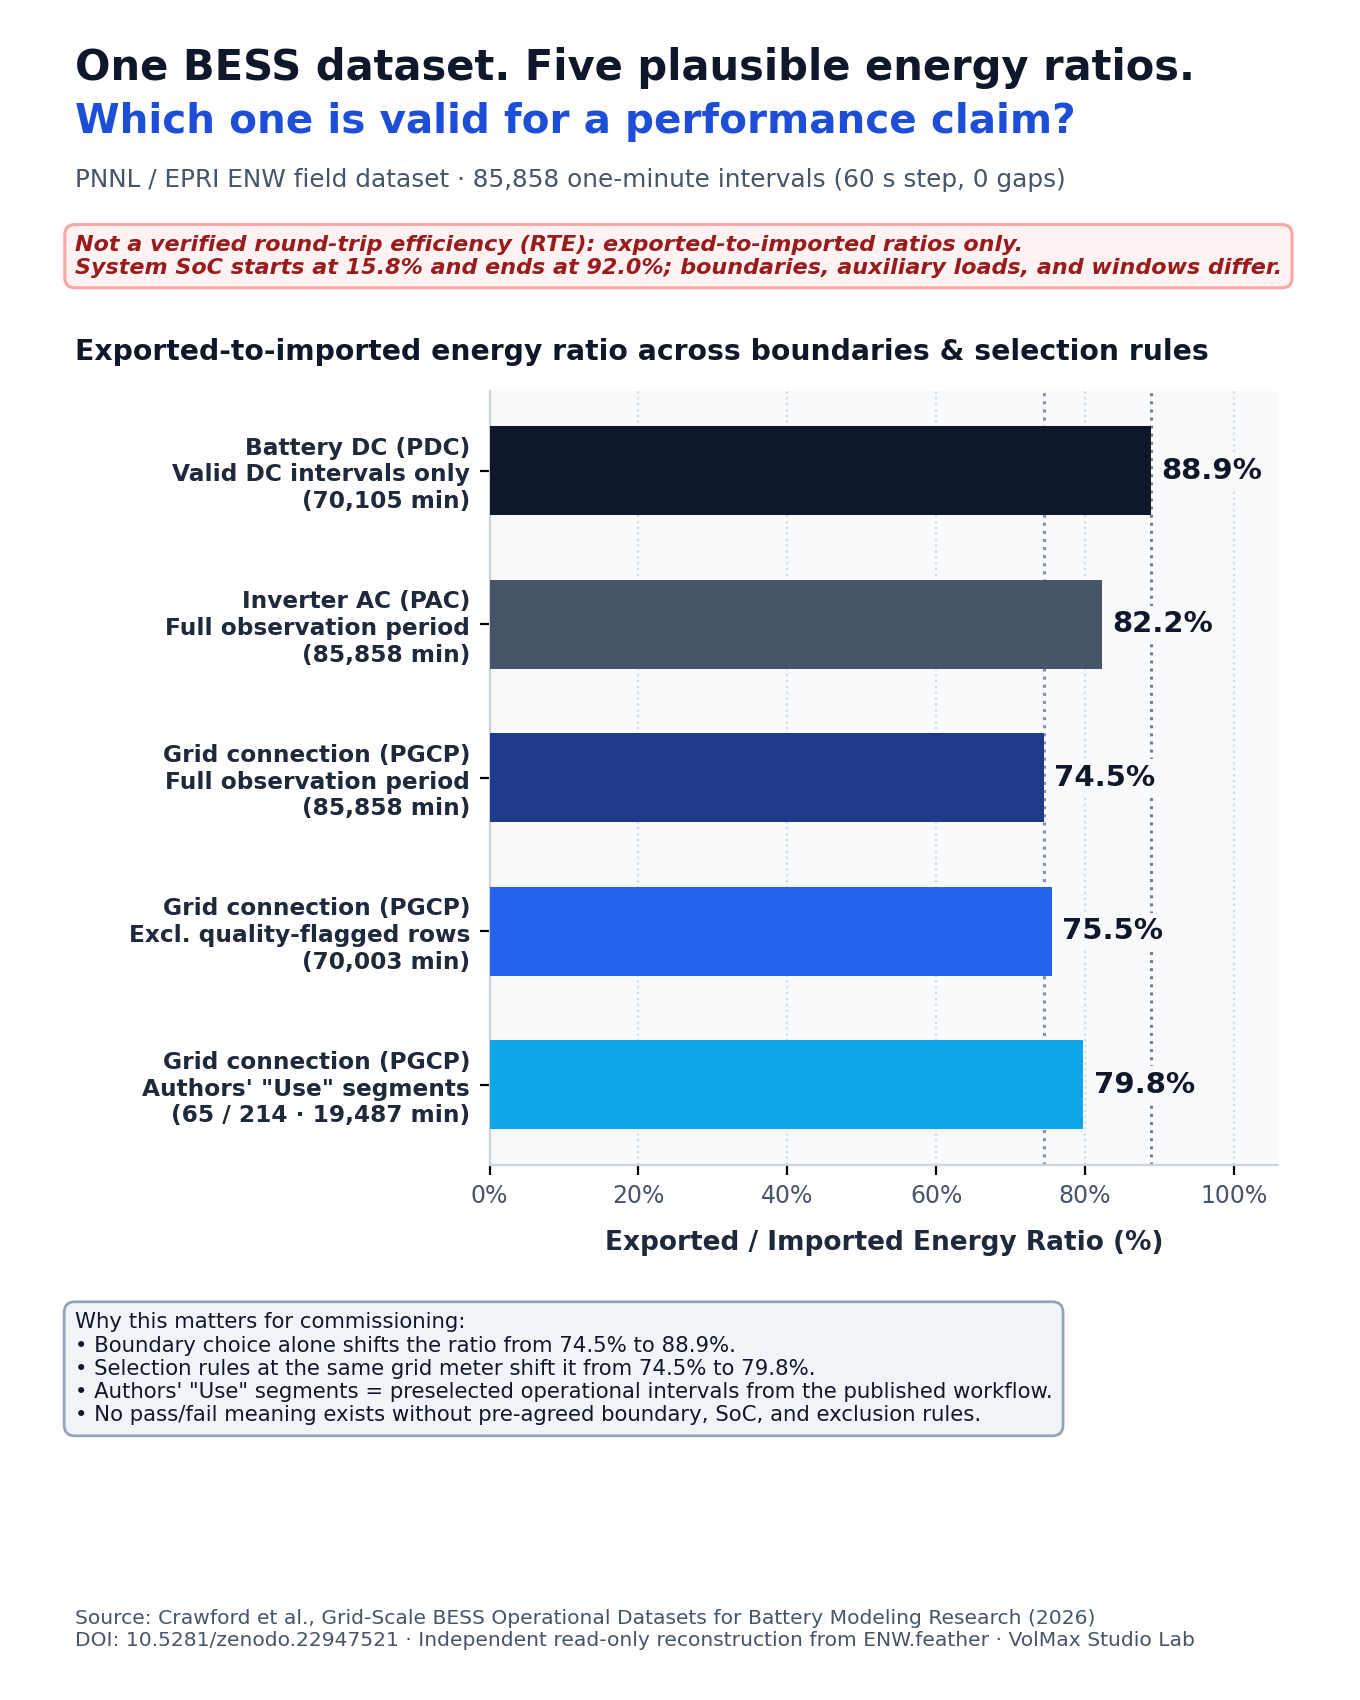
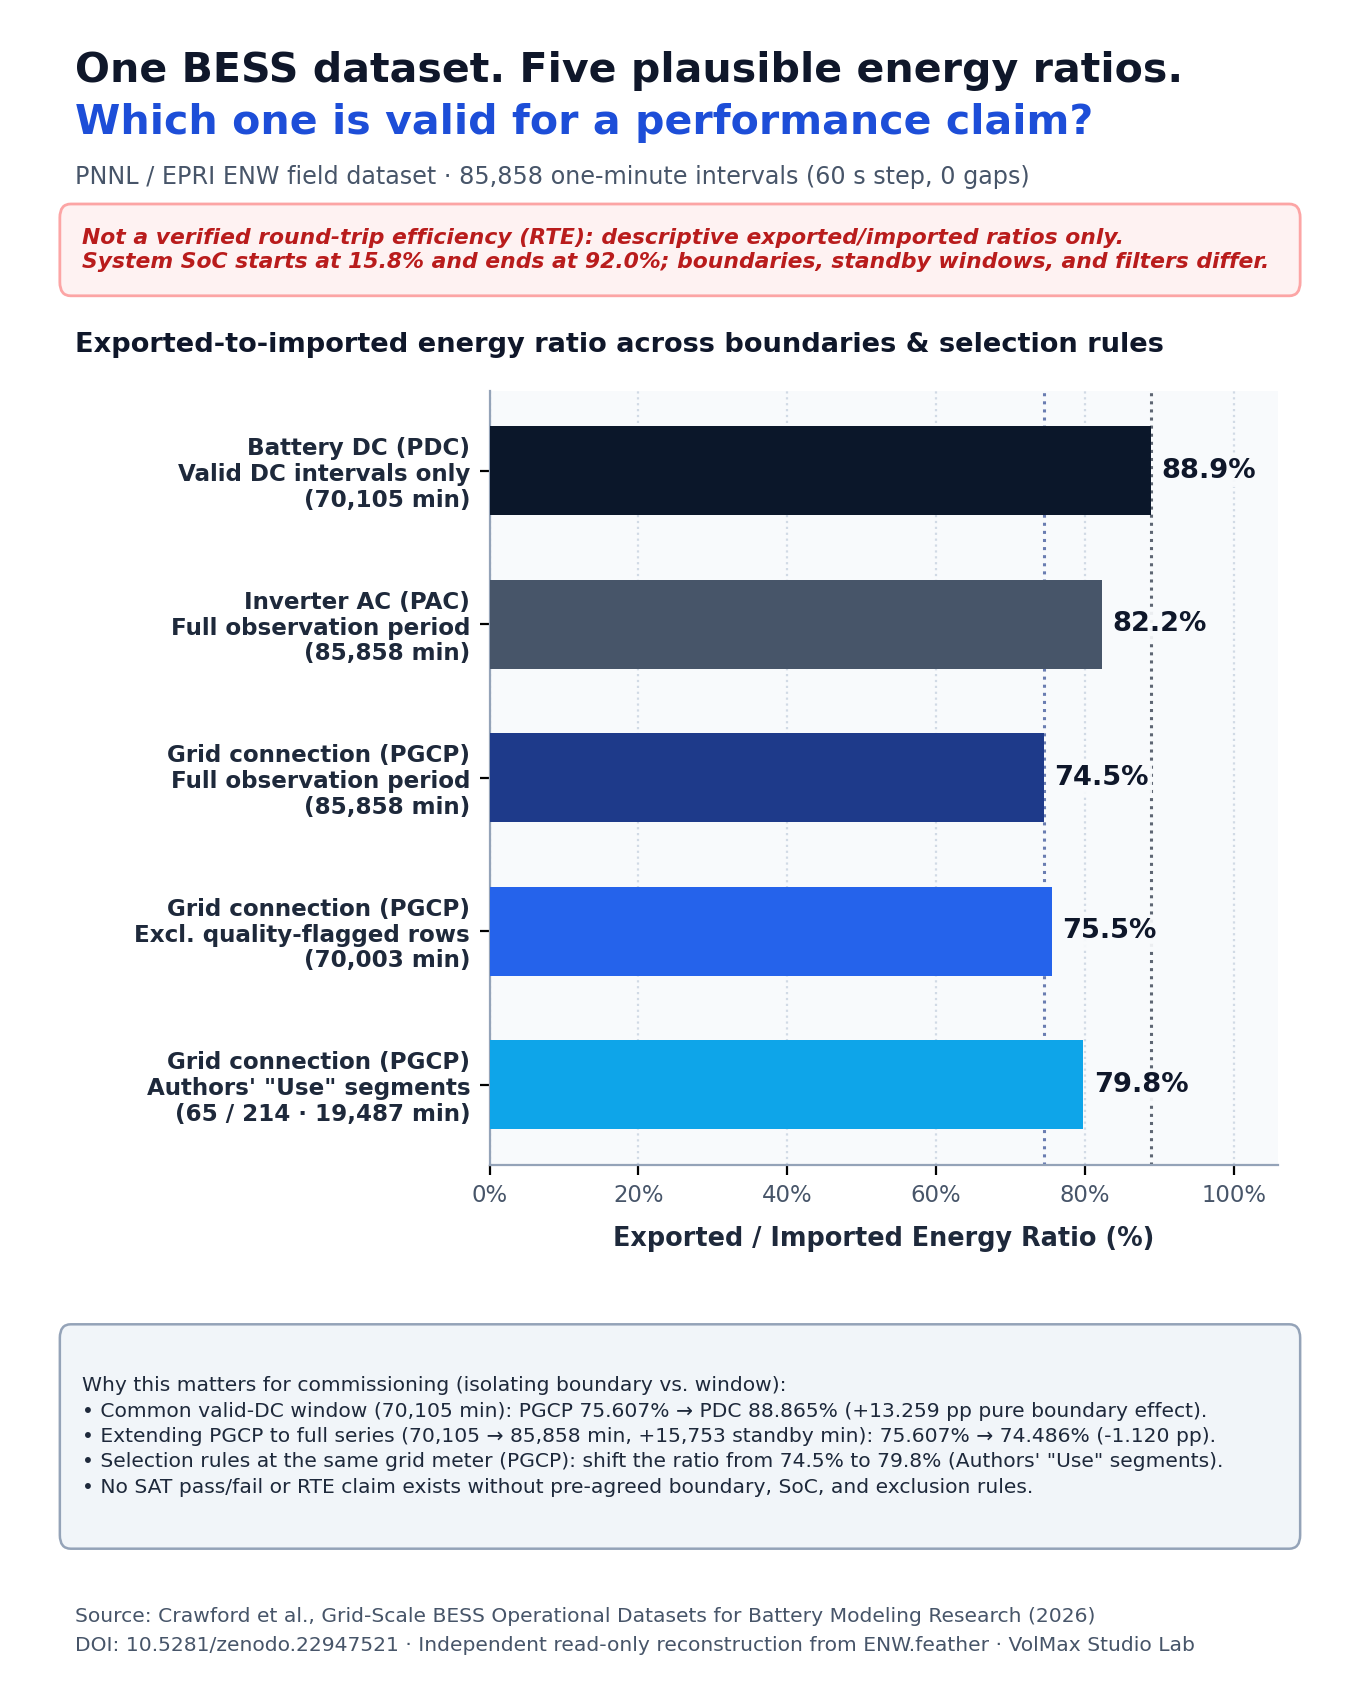
Isolate common-window boundary effect vs. window extension in ENW

diff --git a/enw-pnnl-epri/reproduce.py b/enw-pnnl-epri/reproduce.py
@@ -127,6 +127,7 @@ def run_reproduction(data_dir: Path, force_download: bool = False, as_json: bool
     piv_cyc = df.pivot(index="HoursElapsed_key", columns="Meter", values="CycleIndex")
 
     any_qf = piv_qf.any(axis=1)
+    valid_dc_mask = piv_p["PDC"].notna()
     use_mask = piv_use["PGCP"].astype(bool)
 
     soc_non_null = df["SOC"].dropna()
@@ -143,6 +144,15 @@ def run_reproduction(data_dir: Path, force_download: bool = False, as_json: bool
         ("Grid connection (PGCP) - excl. quality-flagged rows", energy_ratio(piv_p.loc[~any_qf, "PGCP"])),
         ("Grid connection (PGCP) - authors' \"Use\" segments", energy_ratio(piv_p.loc[use_mask, "PGCP"])),
     ]
+
+    common_pdc = energy_ratio(piv_p.loc[valid_dc_mask, "PDC"])
+    common_pac = energy_ratio(piv_p.loc[valid_dc_mask, "PAC"])
+    common_pgcp = energy_ratio(piv_p.loc[valid_dc_mask, "PGCP"])
+    full_pgcp = rows[2][1]
+
+    boundary_shift_pp = common_pdc["ratio_pct"] - common_pgcp["ratio_pct"]
+    window_shift_pp = full_pgcp["ratio_pct"] - common_pgcp["ratio_pct"]
+    disconnected_min = int((~valid_dc_mask).sum())
 
     if as_json:
         payload = {
@@ -168,6 +178,16 @@ def run_reproduction(data_dir: Path, force_download: bool = False, as_json: bool
                 }
                 for label, res in rows
             ],
+            "common_window_isolation": {
+                "common_window_min": int(valid_dc_mask.sum()),
+                "disconnected_dc_min": disconnected_min,
+                "pdc_common_pct": round(common_pdc["ratio_pct"], 6),
+                "pac_common_pct": round(common_pac["ratio_pct"], 6),
+                "pgcp_common_pct": round(common_pgcp["ratio_pct"], 6),
+                "pgcp_full_pct": round(full_pgcp["ratio_pct"], 6),
+                "pure_boundary_shift_pp": round(boundary_shift_pp, 6),
+                "window_extension_shift_pp": round(window_shift_pp, 6),
+            },
         }
         print(json.dumps(payload, indent=2))
         return 0
@@ -184,10 +204,30 @@ def run_reproduction(data_dir: Path, force_download: bool = False, as_json: bool
     print(f"System SoC span  : {soc_start_pct:.1f}% start -> {soc_end_pct:.1f}% end")
     print(f"Authors' Use rule: {use_segments} of {total_segments} CycleIndex segments selected")
     print("-" * 78)
-    print(f"{'Measurement / Selection Rule':52s} {'Intervals':>10s} {'Ratio':>8s}")
+    print(f"{'Measurement / Selection Rule':50s} {'Intervals':>10s} {'1dp':>7s} {'Exact':>9s}")
     print("-" * 78)
     for label, res in rows:
-        print(f"{label:52s} {res['intervals']:8,d} min {res['ratio_pct']:6.1f}%")
+        print(
+            f"{label:50s} {res['intervals']:8,d} m {res['ratio_pct']:6.1f}% "
+            f"{res['ratio_pct']:7.3f}%"
+        )
+    print("-" * 78)
+    print(f"BOUNDARY VS. WINDOW ISOLATION (common valid-DC window = {int(valid_dc_mask.sum()):,} min):")
+    print(
+        f"  Common window ({int(valid_dc_mask.sum()):,} min): PGCP = {common_pgcp['ratio_pct']:.3f}%, "
+        f"PAC = {common_pac['ratio_pct']:.3f}%, PDC = {common_pdc['ratio_pct']:.3f}%"
+    )
+    print(
+        f"  Pure boundary effect (PGCP -> PDC, same {int(valid_dc_mask.sum()):,} min): "
+        f"{common_pgcp['ratio_pct']:.3f}% -> {common_pdc['ratio_pct']:.3f}% "
+        f"(+{boundary_shift_pp:.3f} pp)"
+    )
+    print(
+        f"  Window extension (PGCP {int(valid_dc_mask.sum()):,} -> {len(piv_p):,} min, "
+        f"+{disconnected_min:,} standby min): "
+        f"{common_pgcp['ratio_pct']:.3f}% -> {full_pgcp['ratio_pct']:.3f}% "
+        f"({window_shift_pp:+.3f} pp)"
+    )
     print("-" * 78)
     print("IMPORTANT EPISTEMIC BOUNDARY:")
     print("  1. These values are DESCRIPTIVE exported-to-imported energy ratios,")

diff --git a/enw-pnnl-epri/README.md b/enw-pnnl-epri/README.md
@@ -8,11 +8,20 @@ Using the published 1-minute field dataset from the **PNNL / EPRI Grid-Scale BES
 
 | Measurement Boundary & Selection Rule | Valid Intervals | Exported / Imported Ratio |
 |---|---:|---:|
-| **Battery DC (`PDC`)** — valid DC intervals only (`Power` non-null) | 70,105 min | **88.9%** (`88.87%`) |
-| **Inverter AC (`PAC`)** — full observation period | 85,858 min | **82.2%** (`82.25%`) |
-| **Grid connection (`PGCP`)** — full observation period | 85,858 min | **74.5%** (`74.49%`) |
-| **Grid connection (`PGCP`)** — excluding quality-flagged rows | 70,003 min | **75.5%** (`75.54%`) |
-| **Grid connection (`PGCP`)** — authors' `Use` segments (65 / 214) | 19,487 min | **79.8%** (`79.78%`) |
+| **Battery DC (`PDC`)** — valid DC intervals only (`Power` non-null) | 70,105 min | **88.9%** (`88.865%`) |
+| **Inverter AC (`PAC`)** — full observation period | 85,858 min | **82.2%** (`82.245%`) |
+| **Grid connection (`PGCP`)** — full observation period | 85,858 min | **74.5%** (`74.486%`) |
+| **Grid connection (`PGCP`)** — excluding quality-flagged rows | 70,003 min | **75.5%** (`75.542%`) |
+| **Grid connection (`PGCP`)** — authors' `Use` segments (65 / 214) | 19,487 min | **79.8%** (`79.781%`) |
+
+## Isolating Boundary Effect vs. Observation-Window Extension
+
+Comparing `PDC` (`70,105 min`) directly against full-series `PGCP` (`85,858 min`) mixes the metering boundary with `15,753` disconnected-DC standby minutes (`dc_v == 0`, where `PAC == 0` and `PGCP` records standby auxiliary import). Evaluating `PDC`, `PAC`, and `PGCP` on the **exact same `70,105`-minute common window** cleanly separates the two effects:
+
+| Comparison | Intervals | Ratio Shift | Interpretation |
+|---|---:|---:|---|
+| **`PGCP` vs. `PDC` on common valid-DC window** (`PAC = 82.245%`) | 70,105 min | **`75.607%` → `88.865%`** (`+13.259 pp` unrounded) | **Pure metering boundary effect** (inverter + transformer + auxiliary loads within identical timestamps) |
+| **`PGCP` common valid-DC vs. `PGCP` full series** | 70,105 → 85,858 min | **`75.607%` → `74.486%`** (`−1.120 pp` unrounded) | **Time-window extension effect** (adding `15,753` disconnected-DC standby minutes) |
 
 ## Epistemic boundaries & limitations
 

diff --git a/README.md b/README.md
@@ -11,7 +11,7 @@ Each case study in this repository follows strict epistemic rules:
 
 ### 1. [`enw-pnnl-epri/`](./enw-pnnl-epri/) — One BESS dataset, five plausible energy ratios
 - **Source:** PNNL / EPRI Grid-Scale BESS Operational Datasets (`ENW`, DOI [`10.5281/zenodo.22947521`](https://doi.org/10.5281/zenodo.22947521), `CC-BY-4.0`)
-- **Result:** Changing only the metering boundary (`PDC`, `PAC`, `PGCP`) or interval-selection rule (`full`, `QualityFlag` exclusion, authors' `Use` segments) yields five distinct exported-to-imported ratios from **`74.5%`** to **`88.9%`** on the exact same 1-minute dataset.
+- **Result:** Across the 1-minute `ENW` dataset, five standard boundary/selection choices span **`74.5%`** to **`88.9%`**. Isolating the common `70,105`-minute valid-DC window separates the pure metering boundary effect (**`75.607% -> 88.865%`**, **`+13.259 pp`** unrounded from `PGCP` to `PDC`) from extending `PGCP` to the full `85,858`-minute series (**`75.607% -> 74.486%`**, **`-1.120 pp`** unrounded from `15,753` disconnected-DC standby minutes).
 - **Quick run:**
   ```bash
   pip install -r requirements.txt
